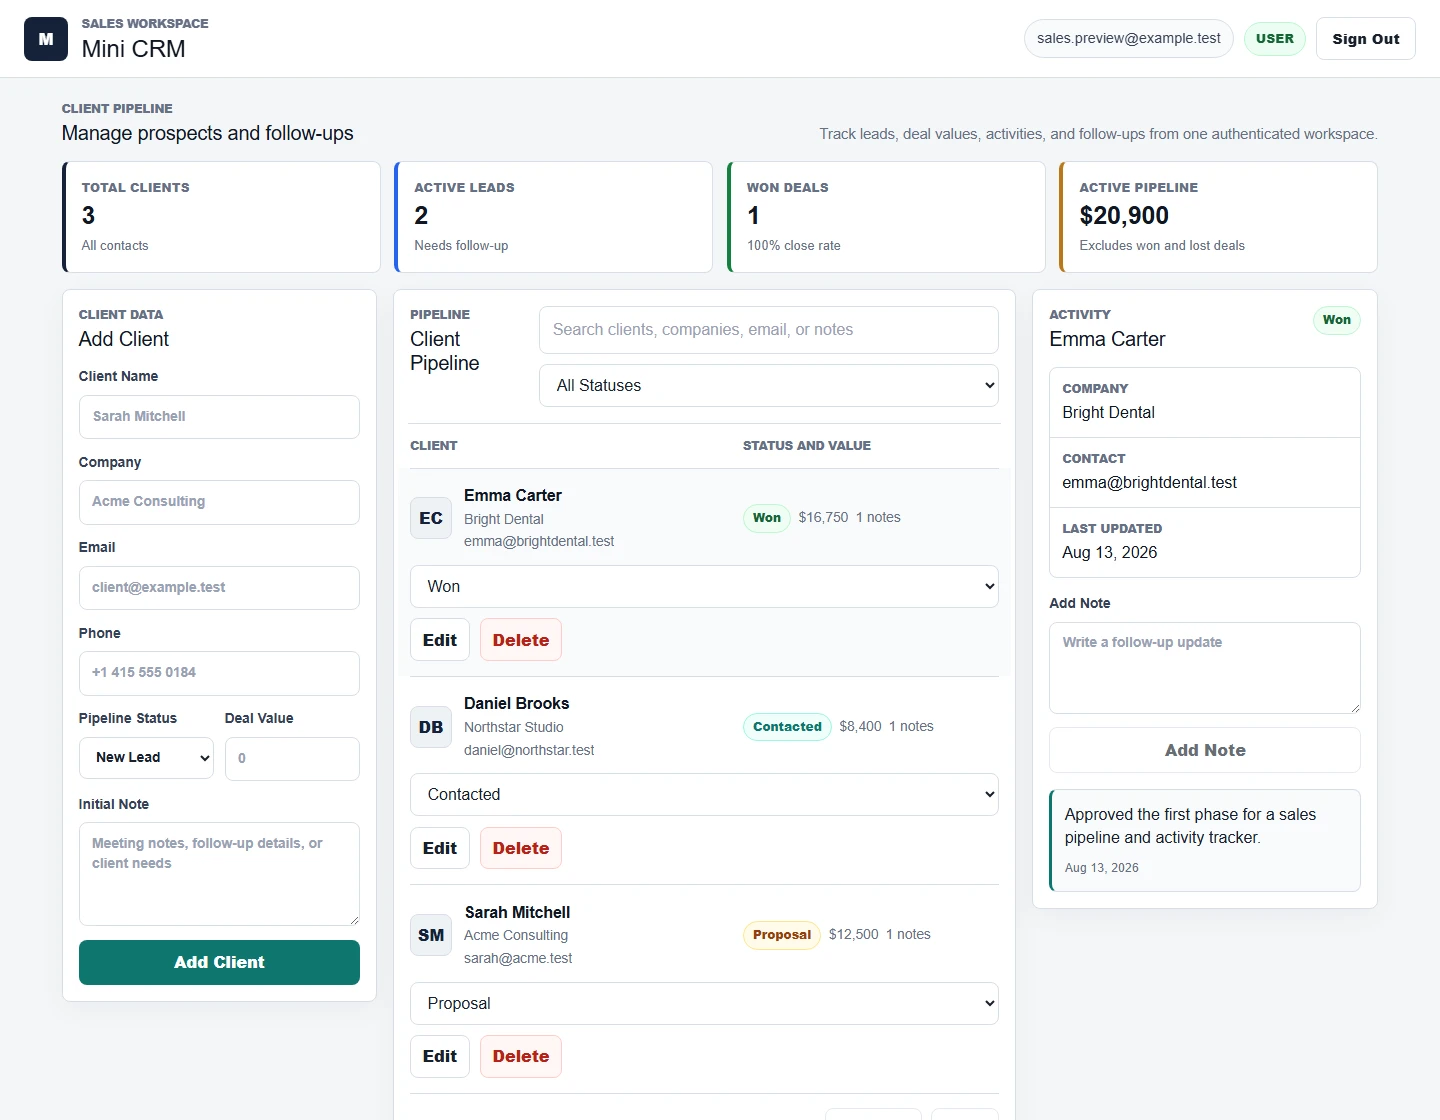
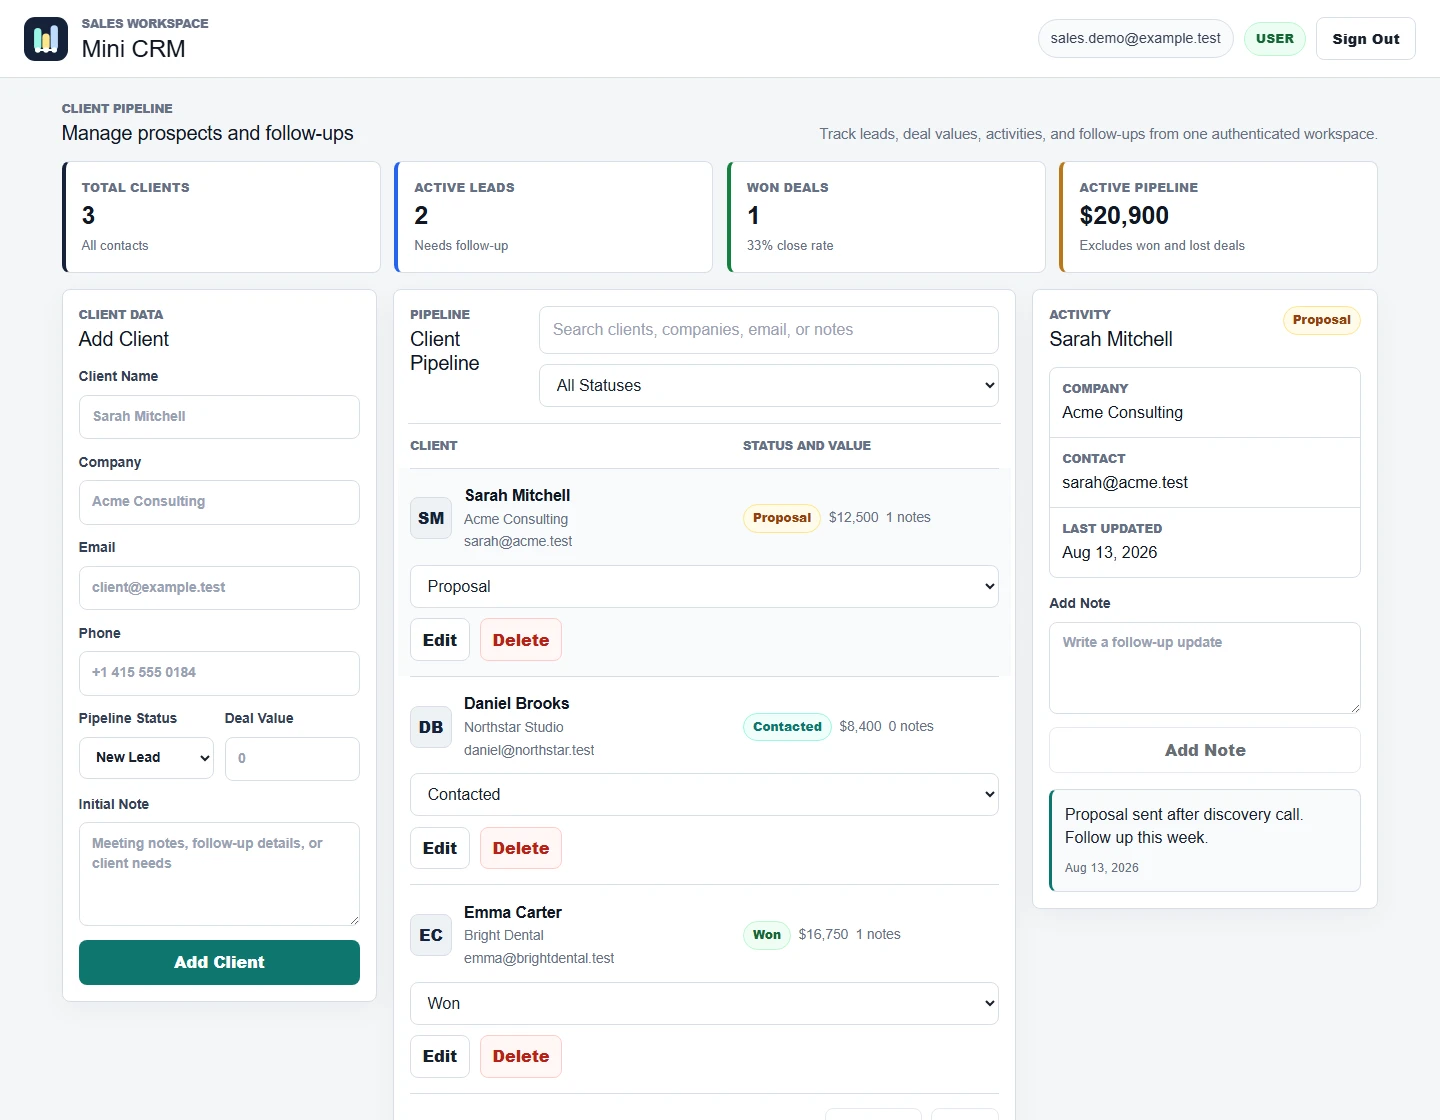
Replace Mini CRM brand mark

diff --git a/src/MiniCrmApp.tsx b/src/MiniCrmApp.tsx
@@ -2,6 +2,7 @@ import { useCallback, useEffect, useRef, useState } from "react";
 import type { ChangeEvent, FormEvent } from "react";
 import { createClient, createClientNote, deleteClient, patchClient, updateClient } from "./api/clients";
 import { AuthForm } from "./components/AuthForm";
+import { BrandMark } from "./components/BrandMark";
 import { ClientDetails } from "./components/ClientDetails";
 import { ClientForm } from "./components/ClientForm";
 import { ClientList } from "./components/ClientList";
@@ -240,7 +241,7 @@ export function MiniCrmApp() {
   if (auth.authLoading) {
     return (
       <main className="loading-page" aria-live="polite">
-        <span className="brand-mark">M</span>
+        <BrandMark />
         <p>Loading your workspace...</p>
       </main>
     );
@@ -266,7 +267,7 @@ export function MiniCrmApp() {
 
       <header className="topbar">
         <div className="brand-row">
-          <span className="brand-mark">M</span>
+          <BrandMark />
           <div>
             <p className="eyebrow">Sales Workspace</p>
             <h1>Mini CRM</h1>

diff --git a/src/components/AuthForm.tsx b/src/components/AuthForm.tsx
@@ -1,4 +1,5 @@
 import type { FormEvent } from "react";
+import { BrandMark } from "./BrandMark";
 import { demoClients } from "../demoData";
 import type { AuthFormState, AuthMode } from "../hooks/useAuth";
 import { formatCurrency, getInitials } from "../utils/formatters";
@@ -27,7 +28,7 @@ export function AuthForm({
       <section className="login-shell" aria-labelledby="login-title">
         <div className="login-panel">
           <div className="brand-row">
-            <span className="brand-mark">M</span>
+            <BrandMark />
             <div>
               <p className="eyebrow">Sales Workspace</p>
               <h1 id="login-title">Mini CRM</h1>

diff --git a/index.html b/index.html
@@ -7,7 +7,7 @@
       name="description"
       content="A lightweight CRM for managing leads, deal values, notes, and sales pipeline activity."
     />
-    <link rel="icon" type="image/svg+xml" href="/favicon.svg" />
+    <link rel="icon" type="image/svg+xml" href="/favicon.svg?v=2" />
     <title>Mini CRM - Sales Pipeline Management</title>
   </head>
   <body>

diff --git a/src/styles.css b/src/styles.css
@@ -295,15 +295,10 @@ h3 {
 }
 
 .brand-mark {
-  align-items: center;
-  background: var(--navy);
   border-radius: 8px;
-  color: #ffffff;
-  display: inline-flex;
   flex: 0 0 44px;
-  font-weight: 800;
   height: 44px;
-  justify-content: center;
+  object-fit: contain;
   width: 44px;
 }
 

diff --git a/src/components/BrandMark.tsx b/src/components/BrandMark.tsx
@@ -1,0 +1,10 @@
+export function BrandMark() {
+  return (
+    <img
+      alt=""
+      aria-hidden="true"
+      className="brand-mark"
+      src="/mini-crm-mark.svg"
+    />
+  );
+}
